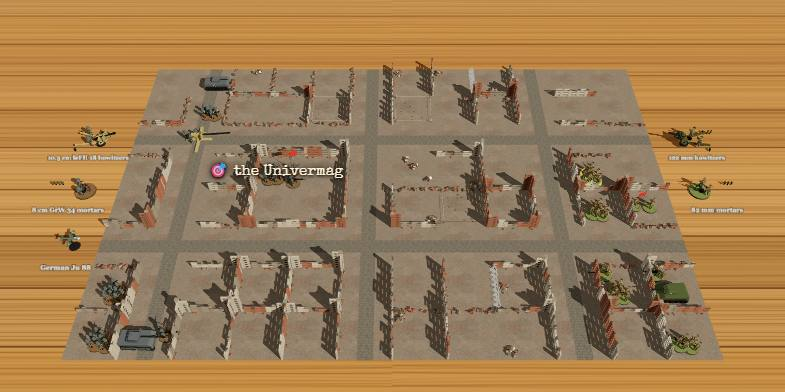
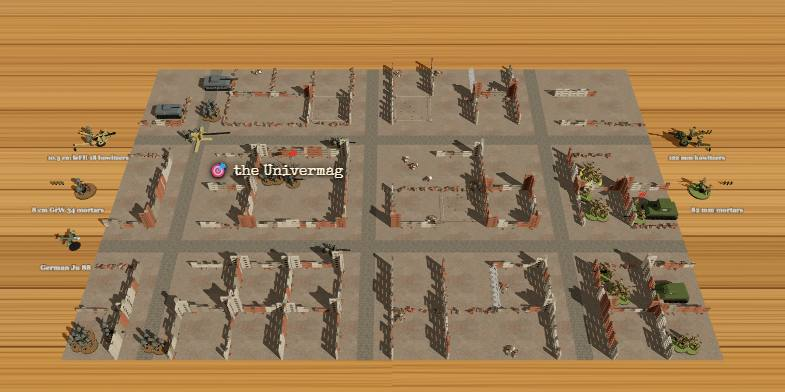
Hedgerow v182: Stalingrad: a KV-2 for the Soviets; the Germans get two PaK 40s and a Panzer IV F2

diff --git a/index.html b/index.html
@@ -152,7 +152,7 @@
 <aside id="panel">
   <div class="brand">
   <div class="top">
-    <h1>HEDGEROW <span id="ver" style="font-size:11px;color:var(--muted);letter-spacing:0">v181</span> <a id="prompts-link" href="prompts.html" target="_blank" rel="noopener" title="How the game was made, prompt by prompt">Prompts</a></h1>
+    <h1>HEDGEROW <span id="ver" style="font-size:11px;color:var(--muted);letter-spacing:0">v182</span> <a id="prompts-link" href="prompts.html" target="_blank" rel="noopener" title="How the game was made, prompt by prompt">Prompts</a></h1>
     <div class="links"><button id="sound-btn" title="Sound on or off">🔊</button><button id="help-btn">How to play</button><button id="new-btn">New game</button></div>
   </div>
   <div id="clock"></div>
@@ -200,7 +200,7 @@
     <p>Tuesday 11 July 1944, Normandy. Your American rifle company must fight through the bocage, field by field, and take a village three fields in from the German end of the board (Saint-Jean or La Haye: it changes each game), then hold it for the whole of the next round, or destroy every German on the field. Taken at the end of a round, it must stay held after every move of the next: a rifle platoon or the captain of yours in it and no Germans. Lose it at any moment and it must be taken and held all over again. The game is played in rounds; there is no limit for now. The moment one side has no pieces left, the game is over (the round isn't finished); if one mission or bomb takes the last of both sides, it is a draw. You lose at the end of a round if you have no rifle platoon and no captain left, and nothing left that can hurt the German tanks. A German garrison holds the village; more Germans march up from the east.</p>
     <ul>
       <li>🪖 <b>Pieces</b>: your company: three rifle platoons (three sections of three men each, moving together), the captain, machine-gun and bazooka teams, a sniper, and two tanks: a Sherman 75mm and a Sherman 76mm, with the longer gun, better against tanks. 1st Platoon is elite, and so is the Germans' 1. Fallschirmjäger-Zug: an elite piece has a gold band round the edge of each of its bases, its men look the part (and a ★ after its name): 1st Platoon are Rangers in brown, with the orange diamond on their helmets; the Fallschirmjäger wear the paratrooper's camouflage smock and black helmet. The other Germans are in field grey. Elite troops need one less to hit, in shooting and hand to hand. Your bases are green, the Germans' brown. The Germans: Fallschirmjäger platoons, MG 42 and Panzerschreck teams, a PaK 40 gun with its crew of three (it turns to face whatever it fires at), a Panzer IV and a Panther in panzer grey (the Panther's armour needs one more to hit, by shot or shell; every tank's armour shows in its panel and on the red label), and their captain with a red flag, who rallies their shaken pieces. Both captains can be shot and shelled like anyone else (a small target): one wound and he's gone.</li>
-      <li>🗺 <b>The campaign</b>: the same start also asks which battle. They run in order from the Normandy beaches through the bocage and the farms to Paris, each with its date; play any of them, in any order. When a battle ends and you have won it, <b>Next battle</b> starts the next one in the campaign with the same commanders on each side (after Paris, back to the beach); lost or drawn, <b>Try again</b> plays the same battle again. With two humans or two robots, it goes on when the Americans win. Take Paris and the city celebrates. Each has its own ground, and most change the pieces, the guns or where the sides start: River crossing (bridges the only way over), Crossroads town, Open farmland (few hedges, barns and a duck pond), Paris (a new maze of cobbled streets each game), Train station (tracks everywhere, with engines, carriages, goods wagons, signal boxes, signals, water towers and coal heaps in new places each game; the tracks themselves have no effect) and Deep bocage (hedges nearly everywhere). A café, a barn, or anything on the rails takes two or three areas, along one side of its field or in the middle, and blocks the view as a tank does; so do the station's signal boxes, water towers and coal heaps, one area each; a signal takes an area too, but can be seen past (with one in the middle only smaller pieces can stop there; platoons and tanks go past); a fountain or a pond can't be stood on, but can be seen over. Bombers differ too: on some maps only one side has one, on one map neither. The choice says what each one changes. Two <b>bonus battles</b> sit at the top right of the choice, outside the campaign. <b>Dunkirk</b>, 31 May 1940: you are the British (or the Germans against them). Your men don't go to the boats: they hold the sandbagged strongpoints along the front (two more to hit the men in one, one more against shells). From round 2 a lorry a round comes down the coast road from the top, with 1 or 2 sections of men, and drives itself (up to 4 fields a round, no orders or token) to a little ship lying off the beach; the men run out of the back into the boat, and the boats sail at the end of the round. Two or three boats (tugs and cabin cruisers) come in each round, off the top four fields of the beach; the destroyer lies at the bottom with the RAF's bomber above it. 12 sections away within 12 rounds wins (a lorry shot up on the way brings fewer); a German on the coast road or the beach at the end of a round loses, and so does running out of lorries or rounds. The Germans can shoot the lorries: each hit loses a section. The Royal Navy's destroyer fires for the British in place of artillery, with 4 rounds; the British have no mortars, and one run of an RAF Blenheim. The boats come in bow first, pull up alongside the beach, and leave bow first. The count of sections away is written large on the beach above the board. On the Normandy beach the American guns are the battleship USS Texas, out at sea, with 3 rounds, and no mortars. On both, the beach runs on past the top and bottom of the board. <b>Stalingrad</b>, November 1942: you are the Soviets (or the Germans against them), coming in from the right through a bombed-out city to take the ruins of the Univermag store from the Germans on the left: an open courtyard of four fields with no walls inside, its ruined walls all round the outside. The walls of ruined buildings stand on the edges between fields and work as hedges do: you see over one only from right beside it, men climb through its windows, lining one is cover, and a tank drives through it, leaving rubble. Lines of rubble do the same. A pile of rubble takes one area, and men in its field have one more to hit; a minefield (boards on stakes round it) rolls a die for every piece that goes in: 5 or 6 sets off a mine, a hit on it. Each side has a section of submachine gunners (PPSh or MP 40): two bases of three men, 3 dice a base, at close range only. The Germans have an 8.8 cm Flak 36 in a fixed position in the middle of the crossroads behind the store, looking down the street: it never moves, but it can turn (its move), and its gun shield gives it 2 cover against shots from in front; the Soviets a T-34, a Maxim, a PTRD anti-tank rifle and a sniper. Their token is red with a yellow star.</li>
+      <li>🗺 <b>The campaign</b>: the same start also asks which battle. They run in order from the Normandy beaches through the bocage and the farms to Paris, each with its date; play any of them, in any order. When a battle ends and you have won it, <b>Next battle</b> starts the next one in the campaign with the same commanders on each side (after Paris, back to the beach); lost or drawn, <b>Try again</b> plays the same battle again. With two humans or two robots, it goes on when the Americans win. Take Paris and the city celebrates. Each has its own ground, and most change the pieces, the guns or where the sides start: River crossing (bridges the only way over), Crossroads town, Open farmland (few hedges, barns and a duck pond), Paris (a new maze of cobbled streets each game), Train station (tracks everywhere, with engines, carriages, goods wagons, signal boxes, signals, water towers and coal heaps in new places each game; the tracks themselves have no effect) and Deep bocage (hedges nearly everywhere). A café, a barn, or anything on the rails takes two or three areas, along one side of its field or in the middle, and blocks the view as a tank does; so do the station's signal boxes, water towers and coal heaps, one area each; a signal takes an area too, but can be seen past (with one in the middle only smaller pieces can stop there; platoons and tanks go past); a fountain or a pond can't be stood on, but can be seen over. Bombers differ too: on some maps only one side has one, on one map neither. The choice says what each one changes. Two <b>bonus battles</b> sit at the top right of the choice, outside the campaign. <b>Dunkirk</b>, 31 May 1940: you are the British (or the Germans against them). Your men don't go to the boats: they hold the sandbagged strongpoints along the front (two more to hit the men in one, one more against shells). From round 2 a lorry a round comes down the coast road from the top, with 1 or 2 sections of men, and drives itself (up to 4 fields a round, no orders or token) to a little ship lying off the beach; the men run out of the back into the boat, and the boats sail at the end of the round. Two or three boats (tugs and cabin cruisers) come in each round, off the top four fields of the beach; the destroyer lies at the bottom with the RAF's bomber above it. 12 sections away within 12 rounds wins (a lorry shot up on the way brings fewer); a German on the coast road or the beach at the end of a round loses, and so does running out of lorries or rounds. The Germans can shoot the lorries: each hit loses a section. The Royal Navy's destroyer fires for the British in place of artillery, with 4 rounds; the British have no mortars, and one run of an RAF Blenheim. The boats come in bow first, pull up alongside the beach, and leave bow first. The count of sections away is written large on the beach above the board. On the Normandy beach the American guns are the battleship USS Texas, out at sea, with 3 rounds, and no mortars. On both, the beach runs on past the top and bottom of the board. <b>Stalingrad</b>, November 1942: you are the Soviets (or the Germans against them), coming in from the right through a bombed-out city to take the ruins of the Univermag store from the Germans on the left: an open courtyard of four fields with no walls inside, its ruined walls all round the outside. The walls of ruined buildings stand on the edges between fields and work as hedges do: you see over one only from right beside it, men climb through its windows, lining one is cover, and a tank drives through it, leaving rubble. Lines of rubble do the same. A pile of rubble takes one area, and men in its field have one more to hit; a minefield (boards on stakes round it) rolls a die for every piece that goes in: 5 or 6 sets off a mine, a hit on it. Each side has a section of submachine gunners (PPSh or MP 40): two bases of three men, 3 dice a base, at close range only. The Germans have an 8.8 cm Flak 36 in a fixed position in the middle of the crossroads behind the store, looking down the street: it never moves, but it can turn (its move), and its gun shield gives it 2 cover against shots from in front; the Soviets a T-34, a KV-2 heavy tank (armour 2, slow, its 152 mm shell deadly among men), a Maxim, a PTRD anti-tank rifle and a sniper; against the KV-2 the Germans also have two PaK 40s and a long-gunned Panzer IV F2. Their token is red with a yellow star.</li>
       <li>🏖 <b>Beach landing</b>: the Americans start in landing craft in the sea and can only go forward. There is no goal to take: they win only by destroying every German, bunkers and all. <b>Bunkers</b> are a U of concrete with an MG team or a PaK 40 inside. They never move and fire only out of the slit in their thick front, to the west, across a 90° arc: 45° either side of straight ahead, measured from where the bunker stands to where the target stands in its field. <b>From in front they need 3 more to hit</b>, and shells and bombs too; <b>from either thin side, 1 more</b>; <b>from the open back (the 90° straight behind it), nothing extra</b>. A bunker never has cover from the sea wall, hedges, houses or trees, and the label on a shot at one says which face. Rifles, machine guns and mortars only shake a bunker; anti-tank weapons, artillery and bombs can knock it out, and a rifle platoon can storm it hand to hand from the side or back, never from the front. A dead bunker stays as a burnt-out shell, blocking the view. <b>Tank traps</b> stop tanks and give no cover. <b>Burnt-out landing craft</b> on the sand block the view; a piece right beside one (in the next area, in its field or the next) has +1 cover, as by a hedge, shown by a green bar along the wreck when you move there (not against shells or bombs). The sea wall is climbed like a hedge bank, or driven through.</li>
       <li>🔄 <b>Human or robot</b>: the game starts by asking who commands each side, and <b>New game</b> asks again. Two humans share the screen and take turns token by token: a piece under fire is asked Stand fast or Take cover by the other player. Two robots play it out while you watch, a draw after 30 rounds. <b>Playing the Germans</b>: As the Germans you win only by destroying every American piece on the table; their mortars, artillery and bomber off the table don't count. You lose if a rifle platoon or the captain of theirs takes the village and holds it for the whole of the next round, with no Germans left in it, or if every German is destroyed. The computer plays the Americans and attacks. Everything else in these rules works the same, the other way round: your pieces fight with German weapons and your mortars drop on one piece, not a whole field.</li>
       <li>📋 <b>The bag</b>: each round a token goes in a blind bag for every piece on the table: green with a gold star for yours, grey with a black cross for the Germans', and one black timer token (a white sand-glass): when the timer is drawn the round ends there and then, whoever has still to move (it is never the first token out). Tokens are drawn one at a time; on yours, pick one piece and give it its move (or Skip turn in its menu); on theirs, a German piece moves. A piece destroyed, or one that loses its move, takes a token out. When the bag is empty the next round starts. The tokens left are shown in the bar at the bottom (the timer between the two sides'); the one drawn flies onto the table above that side's artillery and stays there until its move is over. Your mortars, artillery and bomber each have a token too, while they have rounds or a run left (with none left, they come out of the bag): on one of your tokens, firing them or flying the bomber uses it. Any piece or gun can <b>Skip turn</b> (in its menu): it gives up its move this round and the token is used.</li>
@@ -236,16 +236,16 @@
 </div>
 
 <script src="https://cdnjs.cloudflare.com/ajax/libs/three.js/r128/three.min.js"></script>
-<script src="js/data.js?v=181"></script>
-<script src="js/sim.js?v=181"></script>
-<script src="js/sound.js?v=181"></script>
-<script src="js/models.js?v=181"></script>
-<script src="js/fire.js?v=181"></script>
-<script src="js/chute.js?v=181"></script>
-<script src="js/labels.js?v=181"></script>
-<script src="js/scenery.js?v=181"></script>
-<script src="js/board3d.js?v=181"></script>
-<script src="js/ui.js?v=181"></script>
-<script src="js/main.js?v=181"></script>
+<script src="js/data.js?v=182"></script>
+<script src="js/sim.js?v=182"></script>
+<script src="js/sound.js?v=182"></script>
+<script src="js/models.js?v=182"></script>
+<script src="js/fire.js?v=182"></script>
+<script src="js/chute.js?v=182"></script>
+<script src="js/labels.js?v=182"></script>
+<script src="js/scenery.js?v=182"></script>
+<script src="js/board3d.js?v=182"></script>
+<script src="js/ui.js?v=182"></script>
+<script src="js/main.js?v=182"></script>
 </body>
 </html>

diff --git a/js/data.js b/js/data.js
@@ -307,7 +307,7 @@ const MAPS = [
     // Piles of rubble and minefields made new each game (generated: 'ruins'). The 'us' side is the Soviets (army 'su');
     // the table is seen from the other side (flip), so they come in from the right and the Germans hold the left (Steve)
     id: 'stalingrad', bonus: true, date: 'November 1942', name: 'Stalingrad',
-    note: 'A bombed-out city. The Soviets attack the Germans holding the ruins of the Univermag store: an open courtyard of four fields, walled all round. The walls of ruined buildings stand between the fields and work as hedges do: you see over one only from right beside it, men climb through the windows, and lining one is cover. Lines of rubble do the same; piles of rubble give cover, and minefields may blow up whoever goes in. Each side has a section of submachine gunners: two bases of three men, 3 dice a base (6 in all), at close range only. The Germans have an 8.8 cm Flak in a fixed position on a crossroads, looking down an open street; the Soviets a T-34.',
+    note: 'A bombed-out city. The Soviets attack the Germans holding the ruins of the Univermag store: an open courtyard of four fields, walled all round. The walls of ruined buildings stand between the fields and work as hedges do: you see over one only from right beside it, men climb through the windows, and lining one is cover. Lines of rubble do the same; piles of rubble give cover, and minefields may blow up whoever goes in. Each side has a section of submachine gunners: two bases of three men, 3 dice a base (6 in all), at close range only. The Germans have an 8.8 cm Flak in a fixed position on a crossroads, looking down an open street; the Soviets a T-34 and a KV-2 heavy tank; the Germans two PaK 40s and a long-gunned Panzer IV F2 to meet it.',
     generated: 'ruins',
     ruins: true,
     army: 'su',
@@ -343,6 +343,7 @@ const MAPS = [
         { id: 'smg1', kind: 'company', arms: 'smg', name: 'PPSh Section', quality: 'standard' },
         { id: 'cap', kind: 'captain', name: 'Kapitan (company HQ)' },
         { id: 'T1', kind: 't34', name: 'T-34/76' },
+        { id: 'T2', kind: 'kv2', name: 'KV-2' },
         { id: 'mg1', kind: 'mg', name: 'Maxim MG' },
         { id: 'at1', kind: 'boys', name: 'PTRD Anti-tank Rifle' },
         { id: 'sn1', kind: 'sniper', name: 'Sniper Team' },
@@ -360,8 +361,11 @@ const MAPS = [
         { id: 'dsmg', kind: 'company', arms: 'smg', name: 'MP 40 Section', quality: 'standard', post: [0, -1] },
         { id: 'dmg2', kind: 'mg42', name: 'MG 34 Team', post: [-1, -1] },
         { id: 'd3', kind: 'company', name: '3. Zug', quality: 'standard', reserve: true },
-        { id: 'dt1', kind: 'pz4', name: 'Panzer IV', reserve: true },
+        { id: 'dt1', kind: 'pz4f2', name: 'Panzer IV F2', reserve: true },
         { id: 'dt2', kind: 'pz3', name: 'Panzer III', reserve: true },
+        // (Steve: the Germans rebalanced for the KV-2: two PaK 40s by the store, and the Panzer IV a long-gunned F2)
+        { id: 'dpak1', kind: 'pak', name: 'PaK 40', post: [-1, 1], garrison: true },
+        { id: 'dpak2', kind: 'pak', name: 'PaK 40', post: [-1, -1], garrison: true },
       ],
     },
   },
@@ -494,6 +498,12 @@ const PIECES = {
   flak88:   { name: '8.8 cm Flak 36', soft: 1, hard: 4, team: true, fixed: true, atGun: true, emplaced: true, shield: 2 },
   // Stalingrad, 1942 (Steve)
   t34:      { name: 'T-34/76', soft: 1.5, hard: 1.5, he: 1, tank: true, armour: 1, cutter: true },
+  // The Panzer IV F2 (Steve: the Germans' answer to the KV-2 at Stalingrad): the long 7.5 cm gun; the Panzer IV's model
+  pz4f2:    { name: 'Panzer IV F2', soft: 1.5, hard: 2.5, he: 1, tank: true, armour: 0, cutter: true, look: 'pz4' },
+  // The KV-2 (Steve): the heavy tank with the huge turret and its 152 mm howitzer: thick armour (2, as the Matilda),
+  // slow; a big shell among men, but few rounds and slow to load, so one die against tanks. Balanced by robots (40
+  // games): with the Germans' Panzer IV F2 and two PaK 40s, Soviets 23, Germans 15, 2 draws
+  kv2:      { name: 'KV-2', soft: 1, hard: 1, he: 1.5, tank: true, armour: 2, cutter: true, extraMove: -1 },
   // His submachine gun (Steve): three dice, and closeOnly: he can't shoot beyond close range at all
   // Bunkers (Steve): they can't move, take two areas, and fire only out of the front. BUNKER says how they are hurt
   bunker_mg:  { name: 'MG bunker', soft: 5, hard: 0, team: true, fixed: true, bunker: true },

diff --git a/js/models.js b/js/models.js
@@ -612,6 +612,34 @@ const Models = (() => {
     return castAll(g);
   }
 
+  // The KV-2 (Steve): the long, boxy KV hull on six road wheels a side with return rollers, and the huge, tall slab-sided
+  // turret with its short, fat 152 mm howitzer in a big mantlet. Front +x
+  function kv2() {
+    const paint = sovietPaint();
+    const g = new T.Group(), W = 0.21, L = 0.4;
+    g.add(at(box(L * 0.92, 0.05, W * 0.64, paint), 0, 0.06, 0));
+    g.add(at(profile([[-0.2, 0.085], [0.16, 0.085], [0.205, 0.065], [0.205, 0.085], [0.17, 0.12], [-0.19, 0.12], [-0.2, 0.105]], W, paint, 0.004), 0, 0, 0));
+    for (const s of [-1, 1]) {
+      const z = s * W * 0.43;
+      g.add(trackRun(L * 0.95, 0.05, 0.042, 0.03, z));
+      for (let k = 0; k < 6; k++) g.add(at(wheel(0.024, 0.03, M.steel), -0.15 + k * 0.06, 0.028, z));
+      for (let k = 0; k < 3; k++) g.add(at(wheel(0.008, 0.02, M.steel), -0.1 + k * 0.09, 0.056, z));
+      g.add(at(sprocket(0.024, 0.034, paint), -0.19, 0.04, z));
+      g.add(at(wheel(0.022, 0.034, M.steel), 0.19, 0.04, z));
+    }
+    // The huge turret: a tall box with sloped front, standing high over the hull
+    const turret = profile([[-0.08, 0], [0.06, 0], [0.075, 0.03], [0.065, 0.1], [-0.08, 0.1]], 0.15, paint, 0.006);
+    g.add(at(turret, -0.01, 0.12, 0));
+    g.add(at(box(0.05, 0.006, 0.06, paint), -0.04, 0.224, 0));
+    // The 152 mm howitzer: a big round mantlet and a short, fat barrel
+    g.add(at(box(0.024, 0.05, 0.06, paint), 0.072, 0.165, 0));
+    g.add(at(cyl(0.012, 0.012, 0.11, M.steel, 14), 0.13, 0.165, 0, 0, 0, Math.PI / 2));
+    g.add(at(cyl(0.014, 0.014, 0.012, M.steel, 14), 0.186, 0.165, 0, 0, 0, Math.PI / 2));
+    // Spare track links on the turret side, a white slogan panel
+    for (const s of [-1, 1]) g.add(at(box(0.06, 0.02, 0.002, mat('#e8e4d8', 0.8)), -0.01, 0.17, s * 0.076));
+    return castAll(g);
+  }
+
   // The 8.8 cm Flak 36 (Steve: a fixed position): the cross-shaped platform on its four outriggers, the pedestal, the
   // long barrel with its shield, and its crew of three (no sandbags round it, Steve). Front +x
   function flak88() {
@@ -2491,5 +2519,5 @@ const Models = (() => {
     return castAll(g);
   }
 
-  return { greyhound, puma, c47, supplyCrate, EIFFEL_HEIGHT, eiffel, landingCraft, littleShip, matilda, carrier, panzer1, panzer2, panzer3, sdkfz231, lorry, destroyer, battleship, strongpoint, setBritish, tankTrap, hulk, crater, seaWall, seaWallRubble, bunker, bunkerCrew, BUNKER, track, bufferStop, engine, carriage, wagon, signalbox, signal, watertower, coal, cow, sheep, lampPost, posterColumn, marketStall, cafe, barn, fountain, pond, reeds, BRIDGE_DECK, materials, M, mergeParts, eliteBand, water, bridge, soldier, squad, team, captain, pak, mortar, bomber, blenheim, bomberOnStand, setArmy, t34, flak88, ruinWall, ruinCorner, rubbleLine, rubblePile, minefield, STOREY, howitzer, round, coin, token, sherman, panther, panzer4, hedge, tree, house, die, table, field, lane, at };
+  return { greyhound, puma, c47, supplyCrate, EIFFEL_HEIGHT, eiffel, landingCraft, littleShip, matilda, carrier, panzer1, panzer2, panzer3, sdkfz231, lorry, destroyer, battleship, strongpoint, setBritish, tankTrap, hulk, crater, seaWall, seaWallRubble, bunker, bunkerCrew, BUNKER, track, bufferStop, engine, carriage, wagon, signalbox, signal, watertower, coal, cow, sheep, lampPost, posterColumn, marketStall, cafe, barn, fountain, pond, reeds, BRIDGE_DECK, materials, M, mergeParts, eliteBand, water, bridge, soldier, squad, team, captain, pak, mortar, bomber, blenheim, bomberOnStand, setArmy, t34, kv2, flak88, ruinWall, ruinCorner, rubbleLine, rubblePile, minefield, STOREY, howitzer, round, coin, token, sherman, panther, panzer4, hedge, tree, house, die, table, field, lane, at };
 })();

diff --git a/tools/test.js b/tools/test.js
@@ -4404,7 +4404,10 @@ check('Stalingrad: the Soviets against the Germans, the table seen from the far 
   assert(rubble.every(f => f.areas.length === 1 && f.areas[0] !== 'c') && mines.every(f => !f.areas.length), 'wrong areas');
   // Their armies: the Soviets' T-34 and PPSh section, the Germans' 88 and MP 40 section
   const kinds = side => st.units.filter(u => u.side === side).map(u => u.kind + (u.arms ? ':' + u.arms : ''));
-  assert(kinds('us').includes('t34') && kinds('us').includes('company:smg'), kinds('us').join());
+  assert(kinds('us').includes('t34') && kinds('us').includes('kv2') && kinds('us').includes('company:smg'), kinds('us').join());
+  // (Steve: the Germans rebalanced for the KV-2)
+  assert(kinds('de').filter(k => k === 'pak').length === 2 && kinds('de').includes('pz4f2'), kinds('de').join());
+  assert(PIECES.kv2.armour === 2 && PIECES.kv2.extraMove < 0 && PIECES.pz4f2.hard > PIECES.pz4.hard, 'the KV-2 or the F2 numbers are wrong');
   assert(kinds('de').includes('flak88') && kinds('de').includes('company:smg'), kinds('de').join());
   Sim.newGame(1);
   assert(Sim.hedgeWord() === 'hedge', 'hedges are still called ruins elsewhere');

diff --git a/js/ui.js b/js/ui.js
@@ -13,7 +13,7 @@ const UI = (() => {
                  // Dunkirk, 1940 (Steve)
                  matilda: 'Matilda II', carrier: 'Universal Carrier (Bren)', lorry: 'Lorry of men for the boats', boys: 'Boys anti-tank rifle team', pz1: 'Panzer I', pz2: 'Panzer II', pz3: 'Panzer III', sdkfz231: 'Sd.Kfz. 231 armoured car',
                  // Stalingrad, 1942 (Steve)
-                 t34: 'T-34/76', flak88: '8.8 cm Flak 36' };
+                 t34: 'T-34/76', kv2: 'KV-2 heavy tank (152 mm)', pz4f2: 'Panzer IV F2 (long 7.5 cm)', flak88: '8.8 cm Flak 36' };
   // What a piece is, in words: a rifle platoon with submachine guns is a section of submachine gunners (Steve)
   const kindName = u => (u.arms === 'smg' ? 'Submachine-gun section' : KIND[u.kind]);
 

diff --git a/js/board3d.js b/js/board3d.js
@@ -1093,7 +1093,7 @@ const Board = (() => {
         // Dunkirk, 1940 (Steve)
         matilda: Models.matilda, carrier: Models.carrier, pz1: Models.panzer1, pz2: Models.panzer2, pz3: Models.panzer3, sdkfz231: Models.sdkfz231,
         // Stalingrad, 1942 (Steve)
-        t34: Models.t34 }[kind];
+        t34: Models.t34, kv2: Models.kv2 }[kind];
       return [0].map(() => { const m = Models.mergeParts(make()); markerSpots(m); m.scale.setScalar(TANKS); m.userData.slowTurn = true; return m; });
     }
     if (PIECES[kind].bunker) return [bunkerBase(kind === 'bunker_gun')];

diff --git a/PROMPTS.md b/PROMPTS.md
@@ -1834,6 +1834,13 @@ How the game was made: each prompt, what was built, and the assumptions made.
 - **Small guns**: one more needed against any tank (armoured cars and carriers too), "+1 small gun" in the red bubble
 - Robots at Stalingrad (20 games): Soviets 12, Germans 8
 
+## 314. Stalingrad: a KV-2 for the Soviets, the Germans rebalanced (v182)
+
+- Steve: give the Russians at Stalingrad a KV-2 and rebalance the German force to account for it
+- **The KV-2** (new model: the long KV hull on six road wheels, the huge tall turret, the short fat 152 mm howitzer): armour 2, as the Matilda; one field slower; 1 die against tanks (slow to load, few rounds) and 1.5 for its gun at men (its hits kill)
+- **The Germans**: two PaK 40s by the store (each side of it) and the Panzer IV now a long-gunned Panzer IV F2 (2.5 anti-tank dice, the Panzer IV's model)
+- **The numbers tried** (robots, 40 games each): the KV-2 at armour 2 with 2 anti-tank dice and 3 at men, Germans unchanged: Soviets 36, Germans 2; with one PaK 40 more: 34 to 6; the KV-2 at 1.5 and 2, and the F2: 32 to 7; armour 1: 29 to 11; without the KV-2 at all (with the German additions): 18 to 21. **Chosen**: armour 2 kept (realistic), its guns cut to 1 and 1.5, and a second PaK 40: Soviets 23, Germans 15, 2 draws (before the KV-2, 12 to 8 in 20). The KV-2 still survives most games (24 of 40): the German computer does not go after it hard
+
 ## Sessions
 
 | # | Date | Length | What we did |
